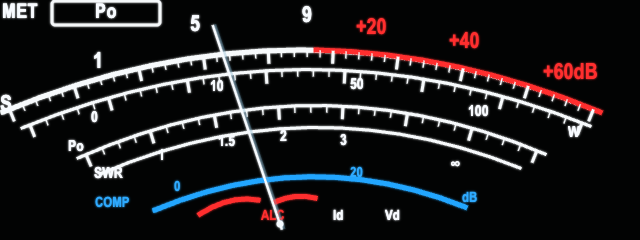
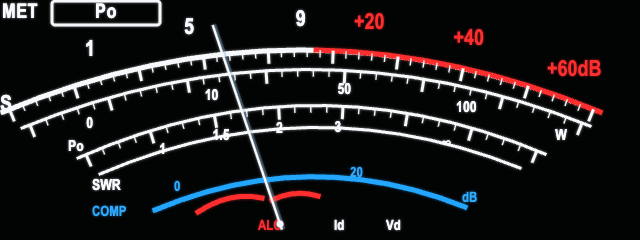
refine touchscreen meter scale geometry

diff --git a/frontend/src/components-v2/meters/IcomTouchNeedleMeter.svelte b/frontend/src/components-v2/meters/IcomTouchNeedleMeter.svelte
@@ -40,9 +40,24 @@
   }
 
   interface Point { readonly x: number; readonly y: number }
+  interface Curve { readonly start: Point; readonly control: Point; readonly end: Point }
+  interface ScaleLabel extends Point {
+    readonly text: string;
+    readonly accent?: 'red';
+  }
+
+  const OUTER_CURVE: Curve = {
+    start: { x: 3, y: 112 }, control: { x: 300, y: -12 }, end: { x: 600, y: 112 },
+  };
+  const POWER_CURVE: Curve = {
+    start: { x: 22, y: 128 }, control: { x: 305, y: 12 }, end: { x: 590, y: 126 },
+  };
+  const INNER_CURVE: Curve = {
+    start: { x: 78, y: 158 }, control: { x: 310, y: 55 }, end: { x: 545, y: 154 },
+  };
 
   const curveTicks = (
-    count: number, start: Point, control: Point, end: Point, majorEvery: number,
+    count: number, { start, control, end }: Curve, majorEvery: number,
   ): Tick[] =>
     Array.from({ length: count }, (_, index) => {
       const t = (index + 0.5) / count;
@@ -63,9 +78,56 @@
       };
     });
 
-  const OUTER_TICKS = curveTicks(46, { x: 3, y: 112 }, { x: 300, y: -12 }, { x: 600, y: 112 }, 5);
-  const POWER_TICKS = curveTicks(36, { x: 22, y: 128 }, { x: 305, y: 12 }, { x: 590, y: 126 }, 5);
-  const INNER_TICKS = curveTicks(29, { x: 78, y: 158 }, { x: 310, y: 55 }, { x: 545, y: 154 }, 4);
+  const curveLabel = (
+    text: string, curve: Curve, t: number, offset: number, side: 'outside' | 'inside',
+    accent?: 'red',
+  ): ScaleLabel => {
+    const inverse = 1 - t;
+    const x = inverse * inverse * curve.start.x
+      + 2 * inverse * t * curve.control.x + t * t * curve.end.x;
+    const y = inverse * inverse * curve.start.y
+      + 2 * inverse * t * curve.control.y + t * t * curve.end.y;
+    const dx = 2 * inverse * (curve.control.x - curve.start.x)
+      + 2 * t * (curve.end.x - curve.control.x);
+    const dy = 2 * inverse * (curve.control.y - curve.start.y)
+      + 2 * t * (curve.end.y - curve.control.y);
+    const magnitude = Math.hypot(dx, dy);
+    const direction = side === 'outside' ? 1 : -1;
+    return {
+      text,
+      x: x + direction * (dy / magnitude) * offset,
+      // Six pixels account for the text baseline while keeping every glyph
+      // center at the same normal distance from its own curved scale.
+      y: y - direction * (dx / magnitude) * offset + 6,
+      accent,
+    };
+  };
+
+  const OUTER_TICKS = curveTicks(46, OUTER_CURVE, 5);
+  const POWER_TICKS = curveTicks(36, POWER_CURVE, 5);
+  const INNER_TICKS = curveTicks(29, INNER_CURVE, 4);
+  const OUTER_LABELS = [
+    curveLabel('1', OUTER_CURVE, 0.16, 30, 'outside'),
+    curveLabel('5', OUTER_CURVE, 0.32, 30, 'outside'),
+    curveLabel('9', OUTER_CURVE, 0.50, 30, 'outside'),
+    curveLabel('+20', OUTER_CURVE, 0.61, 30, 'outside', 'red'),
+    curveLabel('+40', OUTER_CURVE, 0.77, 30, 'outside', 'red'),
+    curveLabel('+60dB', OUTER_CURVE, 0.94, 30, 'outside', 'red'),
+  ];
+  const POWER_LABELS = [
+    curveLabel('0', POWER_CURVE, 0.11, 18, 'inside'),
+    curveLabel('10', POWER_CURVE, 0.33, 18, 'inside'),
+    curveLabel('50', POWER_CURVE, 0.57, 18, 'inside'),
+    curveLabel('100', POWER_CURVE, 0.79, 18, 'inside'),
+    curveLabel('W', POWER_CURVE, 0.96, 18, 'inside'),
+  ];
+  const INNER_LABELS = [
+    curveLabel('1', INNER_CURVE, 0.17, 20, 'inside'),
+    curveLabel('1.5', INNER_CURVE, 0.30, 20, 'inside'),
+    curveLabel('2', INNER_CURVE, 0.43, 20, 'inside'),
+    curveLabel('3', INNER_CURVE, 0.56, 20, 'inside'),
+    curveLabel('∞', INNER_CURVE, 0.80, 20, 'inside'),
+  ];
 </script>
 
 <div
@@ -83,8 +145,12 @@
   <svg viewBox="0 0 640 240" width="100%" height="100%" preserveAspectRatio="none">
     <defs>
       <filter id="meter-soft-glow" x="-20%" y="-20%" width="140%" height="140%">
-        <feGaussianBlur stdDeviation="1.1" result="blur" />
-        <feMerge><feMergeNode in="blur" /><feMergeNode in="SourceGraphic" /></feMerge>
+        <feGaussianBlur in="SourceGraphic" stdDeviation="1.35" result="bloom" />
+        <feComponentTransfer in="bloom" result="soft-bloom">
+          <feFuncA type="linear" slope="0.58" />
+        </feComponentTransfer>
+        <feGaussianBlur in="SourceGraphic" stdDeviation="0.22" result="soft-core" />
+        <feMerge><feMergeNode in="soft-bloom" /><feMergeNode in="soft-core" /></feMerge>
       </filter>
     </defs>
 
@@ -113,12 +179,9 @@
 
       <g class="outer-labels">
         <text x="0" y="111">S</text>
-        <text x="93" y="68">1</text>
-        <text x="190" y="31">5</text>
-        <text x="302" y="22">9</text>
-        <text class="red-text" x="356" y="34">+20</text>
-        <text class="red-text" x="449" y="48">+40</text>
-        <text class="red-text" x="543" y="79">+60dB</text>
+        {#each OUTER_LABELS as mark}
+          <text class:red-text={mark.accent === 'red'} x={mark.x} y={mark.y} text-anchor="middle">{mark.text}</text>
+        {/each}
       </g>
 
       <path class="scale white" d="M 22 128 Q 305 12 590 126" />
@@ -130,11 +193,9 @@
         />
       {/each}
       <g class="power-labels">
-        <text x="91" y="122">0</text>
-        <text x="210" y="91">10</text>
-        <text x="350" y="89">50</text>
-        <text x="468" y="116">100</text>
-        <text x="568" y="137">W</text>
+        {#each POWER_LABELS as mark}
+          <text x={mark.x} y={mark.y} text-anchor="middle">{mark.text}</text>
+        {/each}
         <text x="68" y="151">Po</text>
       </g>
 
@@ -148,25 +209,23 @@
       {/each}
       <path class="scale white" d="M 100 174 Q 310 84 520 168" />
       <g class="inner-labels">
-        <text x="94" y="178">SWR</text>
-        <text x="158" y="160">1</text>
-        <text x="218" y="146">1.5</text>
-        <text x="280" y="141">2</text>
-        <text x="340" y="145">3</text>
-        <text x="450" y="169">∞</text>
+        <text x="92" y="190">SWR</text>
+        {#each INNER_LABELS as mark}
+          <text x={mark.x} y={mark.y} text-anchor="middle">{mark.text}</text>
+        {/each}
       </g>
 
       <path class="scale blue heavy" d="M 155 210 Q 310 145 465 207" />
-      <path class="scale red heavy" d="M 200 214 Q 230 195 258 200" />
-      <path class="scale red heavy" d="M 275 202 Q 295 193 315 198" />
+      <path class="scale red heavy" d="M 198 212 Q 230 191 262 198" />
+      <path class="scale red heavy" d="M 272 200 Q 295 189 318 196" />
       <g class="lower-labels">
-        <text class="blue-text" x="95" y="207">COMP</text>
+        <text class="blue-text" x="92" y="216">COMP</text>
         <text class="blue-text" x="174" y="191">0</text>
         <text class="blue-text" x="350" y="177">20</text>
         <text class="blue-text" x="462" y="202">dB</text>
-        <text class="red-text" x="261" y="220">ALC</text>
-        <text x="333" y="220">Id</text>
-        <text x="385" y="220">Vd</text>
+        <text class="red-text" x="258" y="230">ALC</text>
+        <text x="334" y="230">Id</text>
+        <text x="386" y="230">Vd</text>
       </g>
 
       {#if state === 'known'}

diff --git a/docs/plans/discovery-artifacts/touchscreen-needle-meter/visual-review.md b/docs/plans/discovery-artifacts/touchscreen-needle-meter/visual-review.md
@@ -17,7 +17,11 @@ The owner-authorized follow-up used two bounded passes:
 1. Replaced ellipse-derived ticks with normals calculated from the three rendered quadratic scale curves; raised the white/red outer arcs to the reference apex; increased tick density to 46 / 36 / 29; moved the literal labels to the overlay landmarks; and shortened/repositioned the blue and red lower arcs.
 2. Added the missing lower white SWR baseline, shortened the outer arc's right endpoint, moved `Id`/`Vd` to the reference baseline, and changed the pointer from a wide blue stroke to a 2.4-pixel white stroke with a subtle 3.2-pixel cool edge.
 
-No semantic state, public prop, neighbouring region, repeated instrument, or composition changed in either pass.
+The next owner review found four remaining presentation defects: the two lower red arcs crowded their labels, several labels touched a scale, curved-scale numerals used visibly uneven offsets, and the vector ink was too clean for the photographed display. The final bounded correction:
+
+3. Derives every numeral position from the same quadratic curve used to draw its scale and applies one normal offset per scale; moves the lower legends below the red arcs; separates and raises those two red segments; and replaces the sharp-plus-halo filter with a restrained soft core and low-opacity bloom.
+
+No semantic state, public prop, neighbouring region, repeated instrument, or composition changed in any pass.
 
 ## Final comparison findings
 
@@ -28,10 +32,10 @@ No semantic state, public prop, neighbouring region, repeated instrument, or com
 | Pointer direction/tip | Direction and tip now overlap closely. The pointer is white-dominant with only a narrow cool edge; its remaining difference is reference blur and subpixel rasterization. |
 | Primary outer arc | Apex and left endpoint now overlap closely. The current right endpoint is about 6 pixels beyond the long red reference stroke; this is under 1% of crop width. |
 | Major/minor ticks | Density and radial placement now follow each curve rather than a separate ellipse. Minor length and reference blur still differ locally. |
-| Label centers | `S`, `1`, `5`, `9`, `+20`, `+40`, `+60dB`, and the Po/SWR labels are materially aligned in the final overlay. Font metrics remain cleaner and narrower than the raster reference. |
+| Label centers and offsets | Curved-scale numerals are generated from their scale curves at a constant normal offset. No label touches its scale in the final render; font metrics remain narrower than the raster reference. |
 | White scale baselines | Four curved white baselines are now present, including the lower SWR boundary missing from the blocked render. Their primary intersections align materially in the overlay. |
-| Lower scales | The blue path now runs approximately x=155..465 versus the reference's x=159..460 coloured run; the two short red ALC segments match the reference's separated shape. |
-| Ink levels | White/red/blue hierarchy now matches, and the pointer is no longer a thick blue stroke. Current vector ink remains sharper than the photographed/rasterized source. |
+| Lower scales | The blue path runs approximately x=155..465 versus the reference's x=159..460 coloured run. The two short red ALC segments remain separate, sit above the legends, and no longer collide with `ALC`, `Id`, or `Vd`. |
+| Ink levels | White/red/blue hierarchy now matches, and the pointer is no longer a thick blue stroke. A restrained sub-pixel soft core plus low-opacity bloom reproduces the old-display fuzz without making the scale illegible. |
 | Neighbouring TX cell | The reference crop contains a partial neighbouring TX cell. The selected component correctly does not reproduce it. |
 
-The final overlay is materially closer than the owner-blocked render. Semantic and component tests still do not grant visual acceptance: the owner must review this exact comparison before any repeated instrument or full-face composition may begin.
+The final overlay is materially closer than the owner-blocked render, and all four findings from the latest owner review are resolved in this selected region. Semantic and component tests still do not grant owner acceptance: the owner must review this exact comparison before any repeated instrument or full-face composition may begin.

diff --git a/design-qa.md b/design-qa.md
@@ -90,5 +90,4 @@ in the native image.
 - Populate the currently empty AF/footer positions only from the v3
   receiver-scoped FFT, receiver-scoped passband, memory, and telemetry
   mechanisms documented in the primitive-field map.
-
 final result: passed
